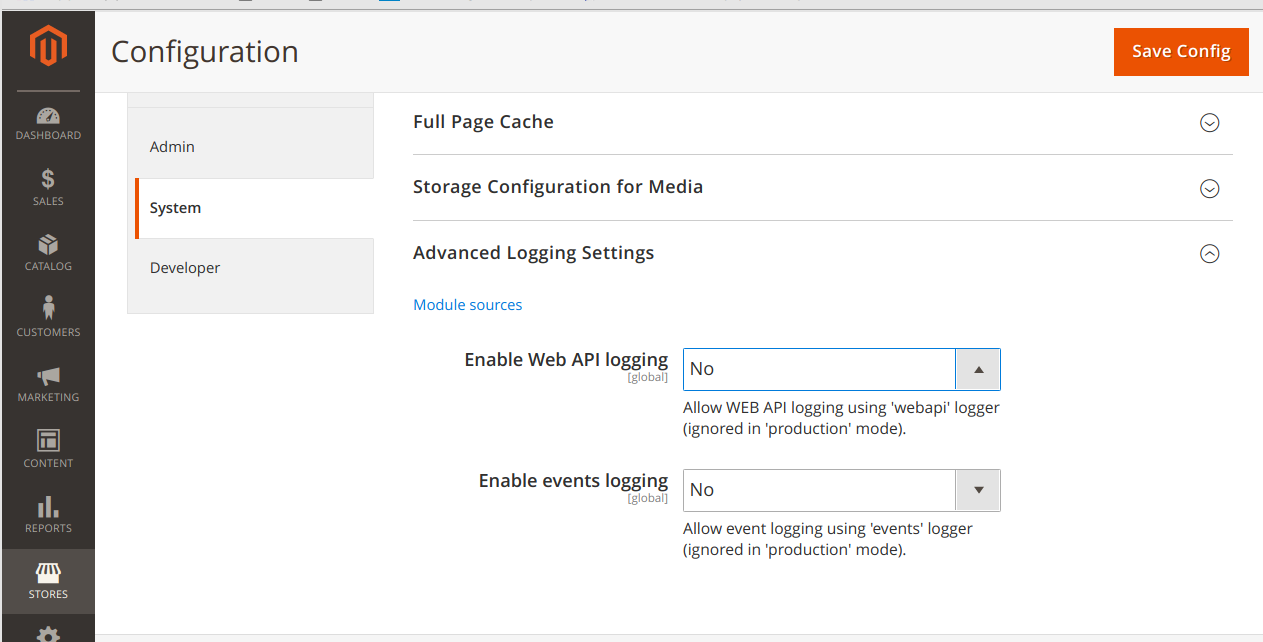
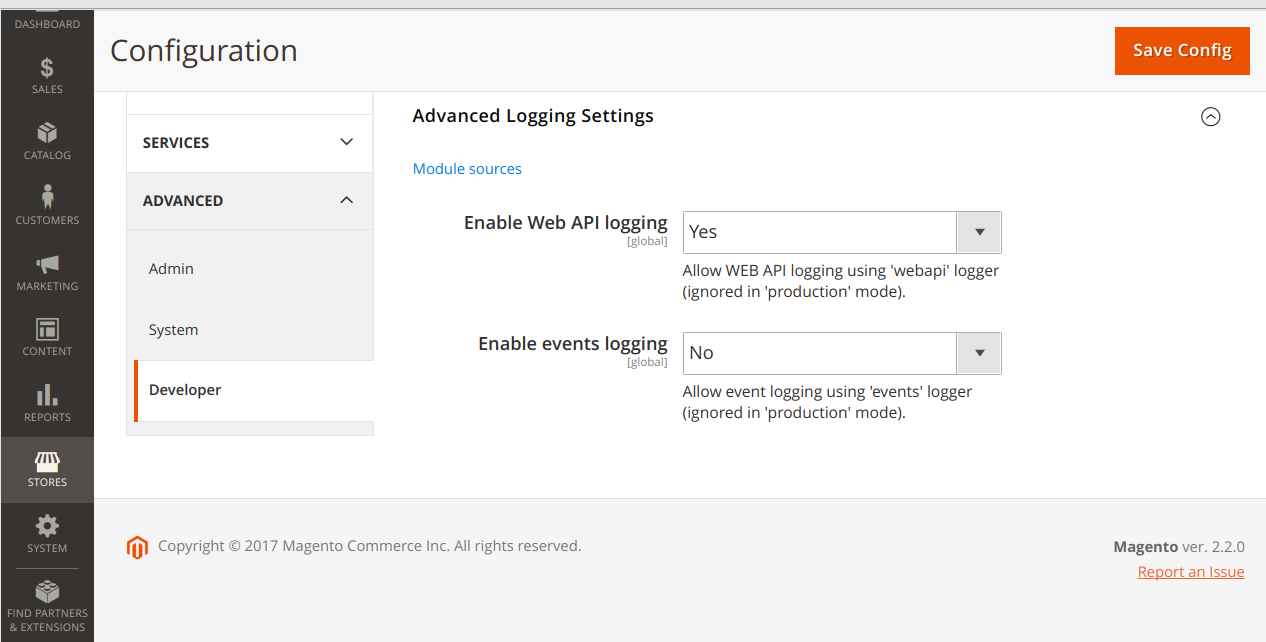
Setup logging after module re-composition

diff --git a/Helper/Config.php b/Helper/Config.php
@@ -32,7 +32,7 @@ class Config
      */
     public function getEventsEnabled()
     {
-        $result = $this->scopeConfig->getValue('system/flancer32_log/enabled_events');
+        $result = $this->scopeConfig->getValue('dev/flancer32_log/enabled_events');
         $result = filter_var($result, FILTER_VALIDATE_BOOLEAN);
         $result = $result && !$this->isInProductionMode();
         return $result;
@@ -45,7 +45,7 @@ class Config
      */
     public function getWebApiEnabled()
     {
-        $result = $this->scopeConfig->getValue('system/flancer32_log/enabled_webapi');
+        $result = $this->scopeConfig->getValue('dev/flancer32_log/enabled_webapi');
         $result = filter_var($result, FILTER_VALIDATE_BOOLEAN);
         $result = $result && !$this->isInProductionMode();
         return $result;
